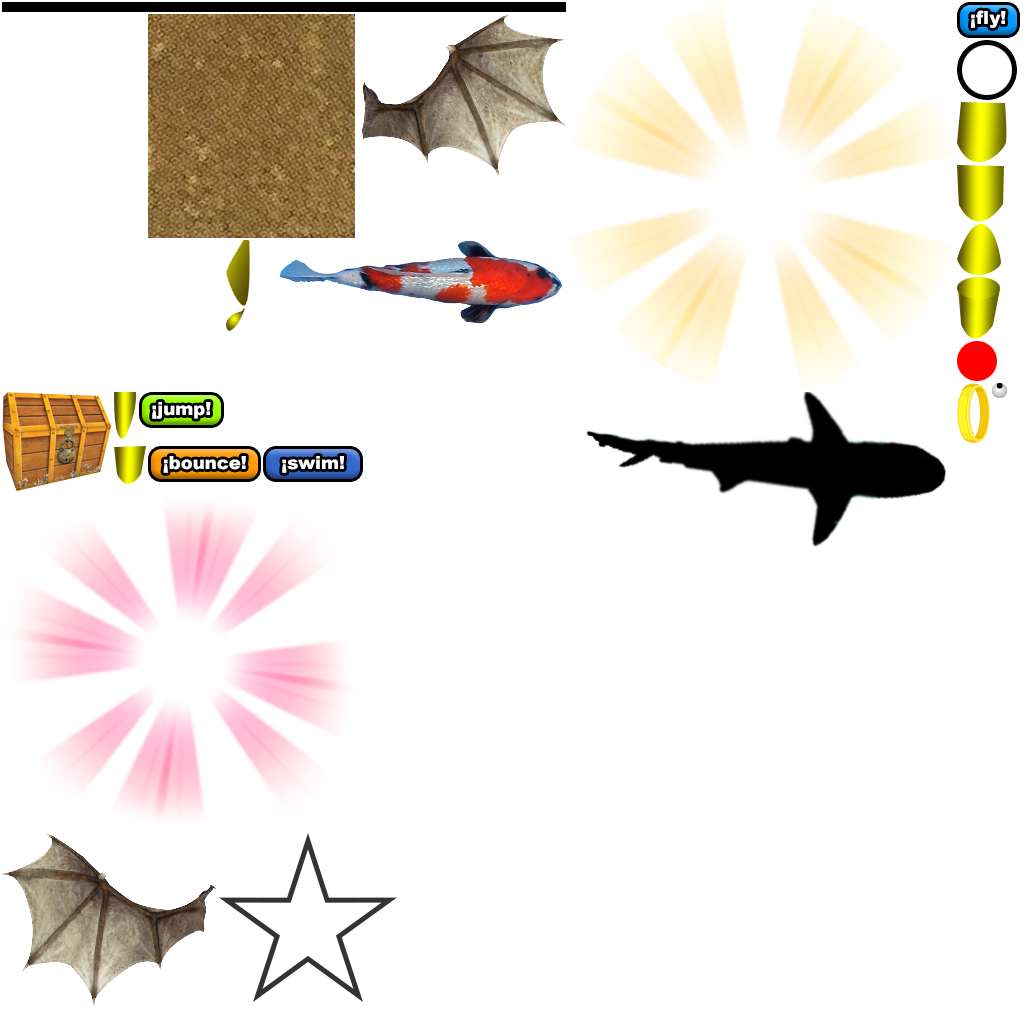
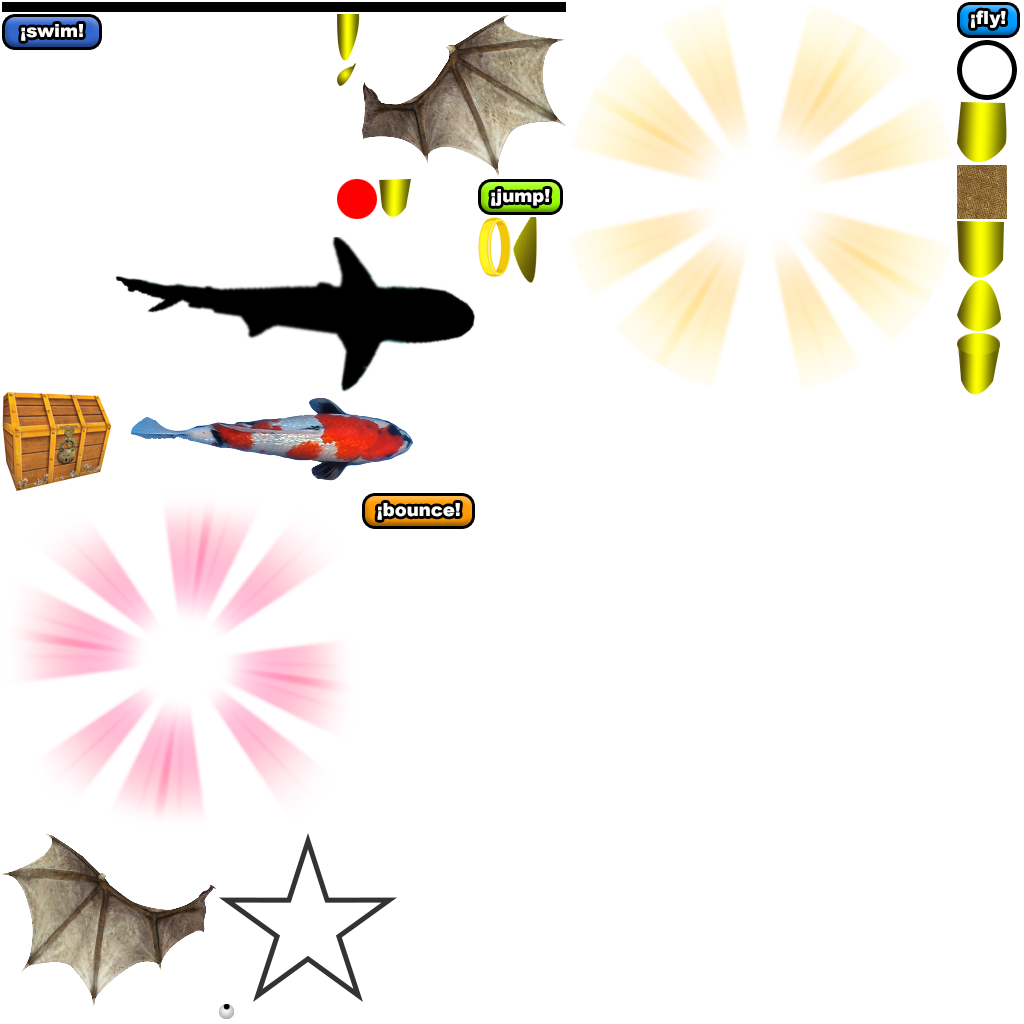
start jump screen

diff --git a/src/animations/supportingClasses/jump/jumpBackground.js b/src/animations/supportingClasses/jump/jumpBackground.js
@@ -1,37 +1,52 @@
 import * as PIXI from 'pixi.js';
 import Utils from '../../utils/utils';
+import TileColumn from './tileColumn';
 export default function () {
 	return {
+		cont: new PIXI.Container(),
 		background: new PIXI.Graphics(),
-		colSpacing: 100,
+		colSpacing: 200,
 		colQ: undefined,
-		init: function (cont, wh, spritesheet) {
-			this.cont = cont;
+		cols: {},
+		columns: [],
+		utils: Utils,
+		activeBrick: undefined,
+		brickHeight: 50,
+		init: function (parentCont, wh, spritesheet) {
+			this.parentCont = parentCont;
 			this.wh = wh;
 			this.spritesheet = spritesheet;
 			this.colQ = this.wh.canvasWidth / this.colSpacing;
 
 
-			for (let i = 0; i < this.colQ; i ++) {
-				let s = new PIXI.Sprite(this.spritesheet.textures['goldTile.png'])
-				s.y = 100;
-				s.x = i * this.colSpacing;
-				this.background.addChild(s);
-			}
 			this.background.beginFill(0xFFFFFF).drawRect(0,0,wh.canvasWidth, wh.canvasHeight).endFill();
+			this.cont.addChild(this.background);
+
+			for(let i = 0; i < this.colQ; i ++){
+				this.tileColumn = TileColumn();
+				this.tileColumn.cont.x = i * this.colSpacing;
+				this.tileColumn.init(this.cont, wh, spritesheet);
+				this.tileColumn.addToStage();
+				this.columns.push(this.tileColumn);
+			}
+			
 		},
 		addToStage: function () {
-			this.cont.addChildAt(this.background, 0);
+			this.parentCont.addChildAt(this.cont, 0);
 		},
 		removeFromStage: function () {
-			this.cont.addChildAt(this.background, 0);
+			this.parentCont.removeChild(this.cont);
 
 		},
 		resize: function () {
 
 		},
 		animate: function () {
-
+			for(let i = 0; i < this.colQ; i ++){
+				this.columns[i].animate();
+			}
+		
+			
 		}
 	}
 }

diff --git a/src/animations/supportingClasses/jump/tileColumn.js b/src/animations/supportingClasses/jump/tileColumn.js
@@ -1,0 +1,61 @@
+import * as PIXI from 'pixi.js';
+import Utils from '../../utils/utils';
+export default function () {
+	return {
+		cont: new PIXI.Container(),
+		colSpacing: 200,
+		colQ: undefined,
+		cols: {},
+		bricks: [],
+		utils: Utils,
+		activeBrick: undefined,
+		brickHeight: 50,
+		init: function (parentCont, wh, spritesheet) {
+			this.parentCont = parentCont;
+			this.wh = wh;
+			this.spritesheet = spritesheet;
+			this.colQ = this.wh.canvasWidth / this.colSpacing;
+
+			let s = this.brick();
+			s.y = this.wh.canvasHeight - this.brickHeight;
+		
+			this.bricks.push(s);
+			this.cont.addChild(s);
+			this.newBrick();
+
+		},
+		brick: function () {
+			let s = new PIXI.Sprite(this.spritesheet.textures['goldTile.png']);
+			s.anchor.set(0.5);
+			return s;
+		},
+		newBrick: function () {
+			let s = this.brick();
+			let previousYVal = this.bricks[this.bricks.length -1].y;
+			this.bricks.push(s);
+			s.y =  -50;
+			s.dest = previousYVal - this.brickHeight;;
+			this.activeBrick = s;
+			this.cont.addChild(s);
+		},
+		addToStage: function () {
+			this.parentCont.addChild(this.cont);
+		},
+		removeFromStage: function () {
+			this.parentCont.removeChild(this.cont);
+
+		},
+		resize: function () {
+
+		},
+		animate: function () {
+			if(this.activeBrick && this.activeBrick.y < this.activeBrick.dest){
+				this.activeBrick.y += 5;
+			} else {
+				this.activeBrick.y = this.activeBrick.dest;
+				this.newBrick();
+			}
+			
+		}
+	}
+}

diff --git a/src/animations/intro_animation.js b/src/animations/intro_animation.js
@@ -30,7 +30,7 @@ export default function(obj) {
 		rotateRightBoolean: false,
 		renderTextureTestBoolean: false,
 		inc: 90,
-		mode: ['swim', 'jump'],//, 'bounce', 'fly'],
+		mode: ['jump', 'swim'],//, 'bounce', 'fly'],
         activeModeIndex: 0,
         activeMode: undefined,
         backgroundCont: new PIXI.Container(),
@@ -364,7 +364,9 @@ export default function(obj) {
 					this.fishSchool.animate();
 					this.swimBackground.animate();
 					this.lilypadLotuses.animate();
-				} 
+				} else if (this.activeMode === 'jump') {
+					this.jumpBackground.animate();
+				}
 				
 			}
 			
